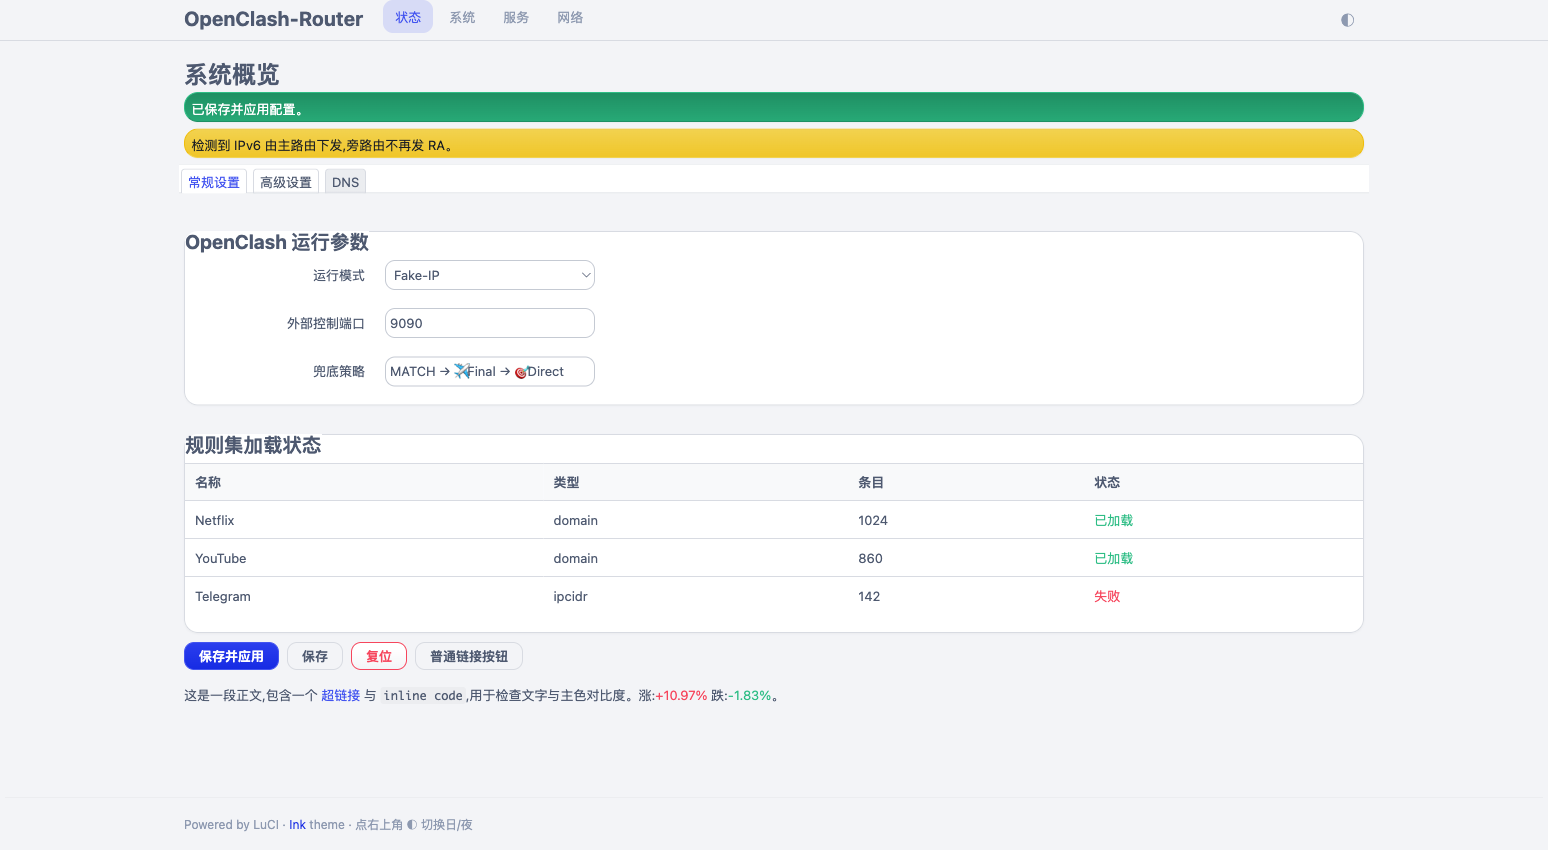
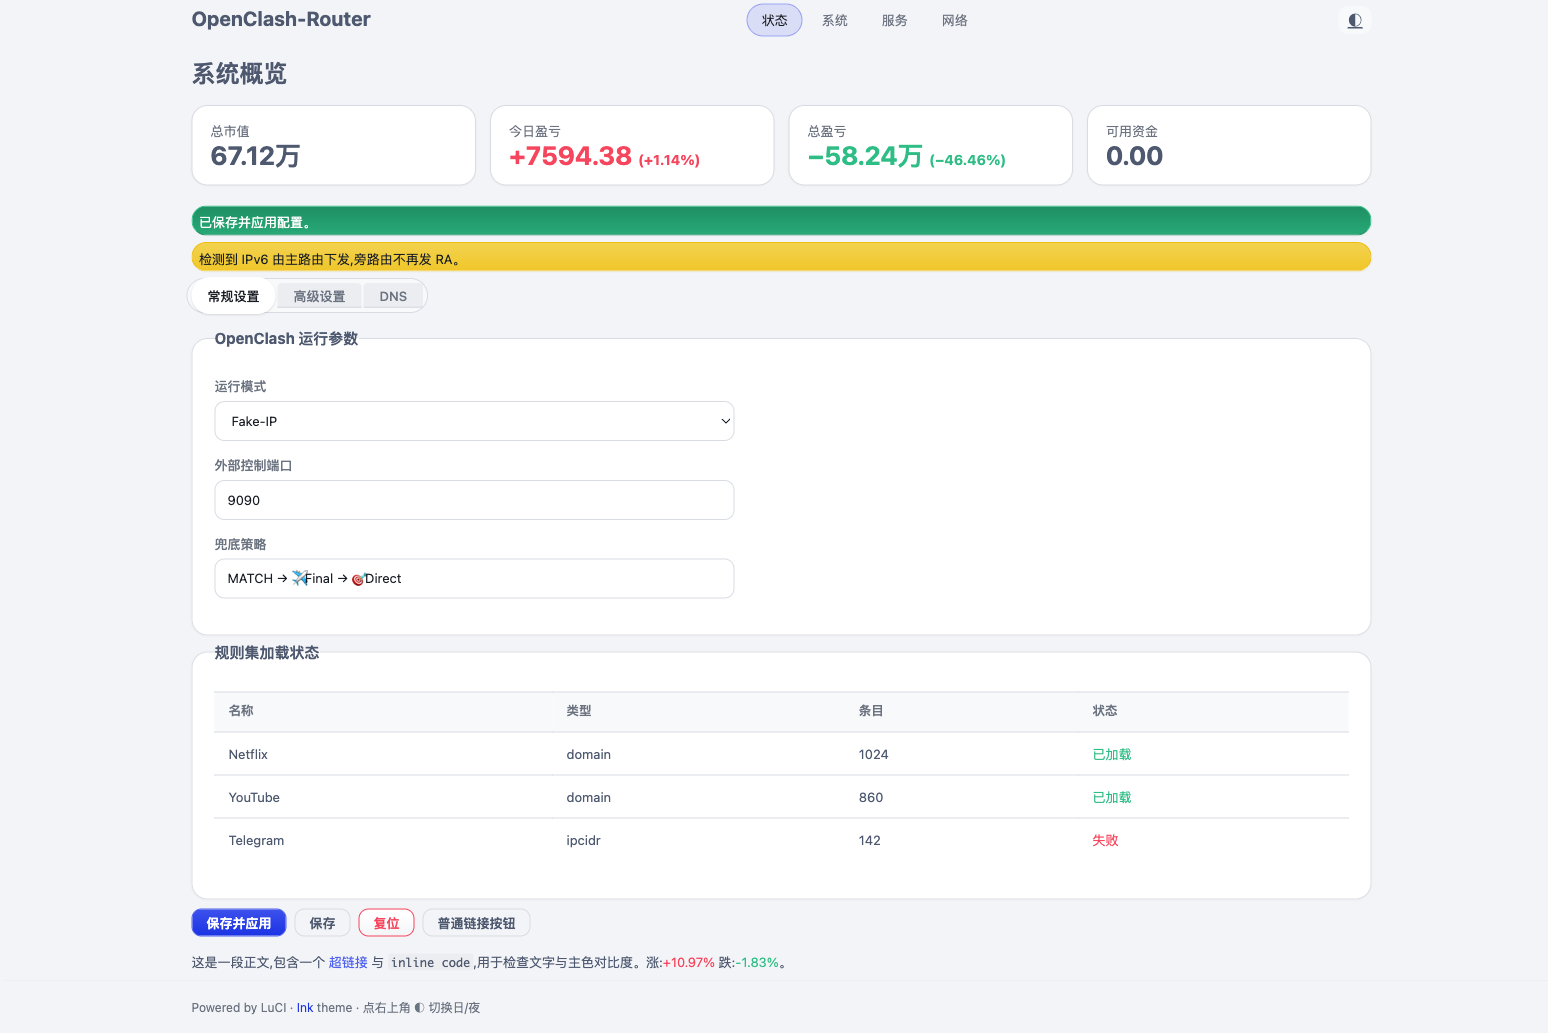
style: 表单标签上置整行输入、tab 分段药丸、导航描边药丸、配色/圆角对齐 PanWatch

diff --git a/luci-theme-ink/htdocs/luci-static/ink/cascade.css b/luci-theme-ink/htdocs/luci-static/ink/cascade.css
@@ -2680,11 +2680,15 @@ body[data-page='admin-status-overview'] .cbi-title .label.notice:hover {
   --border-color-s: 14%;
   --border-color-l: 100%;
 
-  /* indigo primary (PanWatch 234 85% 55%) */
-  --primary-color-high: hsl(234 85% 60%);
-  --primary-color-medium: hsl(234 85% 55%);
-  --primary-color-low: hsl(234 82% 49%);
+  /* indigo primary (PanWatch periwinkle) */
+  --primary-color-high: hsl(233 84% 62%);
+  --primary-color-medium: hsl(233 82% 58%);
+  --primary-color-low: hsl(233 78% 50%);
   --on-primary-color: #fff;
+
+  /* muted labels (PanWatch small gray field labels) */
+  --text-color-medium: hsl(220 9% 46%);
+  --text-color-low: hsl(220 10% 60%);
 
   /* semantic: green = ok / red = error (standard router UI) */
   --success-color-high-rgb: 46, 189, 133;
@@ -2696,7 +2700,7 @@ body[data-page='admin-status-overview'] .cbi-title .label.notice:hover {
   --error-color-medium: #e23a50;
   --error-color-low: #c92f44;
 
-  --ink-radius: 14px;
+  --ink-radius: 16px;
   --ink-radius-sm: 10px;
 
   color-scheme: light;
@@ -2709,7 +2713,7 @@ body[data-page='admin-status-overview'] .cbi-title .label.notice:hover {
   --background-color-delta-l-sign: -1;
   --background-color-h: 222;
   --background-color-s: 16%;
-  --background-color-l: 9%;
+  --background-color-l: 8%;
 
   --text-color-delta-l-sign: -1;
   --text-color-h: 220;
@@ -2721,10 +2725,13 @@ body[data-page='admin-status-overview'] .cbi-title .label.notice:hover {
   --border-color-s: 14%;
   --border-color-l: 11%;
 
-  --primary-color-high: hsl(234 85% 68%);
-  --primary-color-medium: hsl(234 85% 62%);
-  --primary-color-low: hsl(234 80% 55%);
+  --primary-color-high: hsl(233 90% 71%);
+  --primary-color-medium: hsl(233 88% 66%);
+  --primary-color-low: hsl(233 82% 58%);
   --on-primary-color: #fff;
+
+  --text-color-medium: hsl(220 10% 56%);
+  --text-color-low: hsl(220 8% 44%);
 
   color-scheme: dark;
 }
@@ -2762,25 +2769,32 @@ input:focus, select:focus, textarea:focus {
   box-shadow: 0 0 0 3px hsl(234 85% 55% / .18);
 }
 
-/* minimal top bar that BLENDS with the page (PanWatch signature) */
+/* minimal top bar that BLENDS with the page, centered nav (PanWatch signature) */
 header {
   background: var(--background-color-low) !important;
   background-image: none !important;
-  border-bottom: 1px solid var(--border-color-medium);
+  border-bottom: none;
   box-shadow: none;
+  display: flex;
+  align-items: center;
+  gap: 8px;
 }
-header .brand { color: var(--text-color-high); font-weight: 700; letter-spacing: .2px; }
+header .brand { flex: 0 0 auto; color: var(--text-color-high); font-weight: 700; letter-spacing: .2px; }
+header #topmenu { flex: 1 1 auto; display: flex; justify-content: center; gap: 4px; margin: 0; }
+header #indicators, header .ink-dark-toggle { flex: 0 0 auto; }
 header .nav > li > a, header #indicators > * { color: var(--text-color-medium); }
 header .nav > li > a {
-  border-radius: var(--ink-radius-sm);
-  padding: 7px 12px;
-  transition: background-color .15s ease, color .15s ease;
+  border: 1px solid transparent;
+  border-radius: 999px;
+  padding: 6px 14px;
+  transition: background-color .15s ease, color .15s ease, border-color .15s ease;
 }
 header .nav > li > a:hover { color: var(--text-color-high); background: var(--background-color-medium); }
-/* active nav = soft indigo pill, NOT underline */
+/* active nav = bordered soft-indigo pill (PanWatch signature) */
 header .nav > li.active > a {
-  color: var(--primary-color-high);
-  background: hsl(234 85% 55% / .14);
+  color: var(--text-color-highest);
+  background: hsl(234 85% 55% / .12);
+  border-color: hsl(234 85% 62% / .45);
   box-shadow: none;
 }
 
@@ -2815,3 +2829,111 @@ a { color: var(--primary-color-high); }
   text-decoration: none;
 }
 .ink-dark-toggle:hover { color: var(--text-color-high); background: var(--background-color-medium); }
+
+/* -------------------------------------------------------------------------
+ * Ink form layout — PanWatch style: label on top, full-width tall fields
+ * ------------------------------------------------------------------------- */
+
+/* section card: bigger radius + generous padding + bold legend */
+.cbi-section, fieldset.cbi-section, .panel { padding: 20px 22px; }
+.cbi-section > legend, .cbi-section > h3, .panel-title, legend {
+  font-size: 15px;
+  font-weight: 700;
+  color: var(--text-color-high);
+  margin-bottom: 12px;
+  padding: 0;
+}
+
+/* stack each field: label above, field full width.
+   NOTE: must beat bootstrap's `.cbi-value label.cbi-value-title { flex:0 0 180px }`
+   — in a column that 180px becomes HEIGHT, so reset flex to auto with = specificity. */
+.cbi-value {
+  display: flex;
+  flex-direction: column;
+  align-items: stretch;
+  flex-wrap: nowrap;
+  margin-bottom: 16px;
+  padding: 0;
+  border: 0;
+}
+.cbi-value label.cbi-value-title,
+.cbi-value > .cbi-value-title {
+  flex: 0 0 auto;
+  width: 100%;
+  min-width: 0;
+  text-align: left;
+  padding: 0 0 6px 0;
+  margin: 0;
+  font-size: 13px;
+  font-weight: 500;
+  color: var(--text-color-medium);
+  line-height: 1.3;
+}
+.cbi-value-field { flex: 1 1 auto; width: 100%; margin-left: 0; padding: 0; }
+.cbi-value-description { color: var(--text-color-low); font-size: 12px; margin-top: 6px; }
+
+/* full-width, taller, comfy inputs */
+.cbi-value-field input[type="text"],
+.cbi-value-field input[type="password"],
+.cbi-value-field input[type="number"],
+.cbi-value-field input[type="search"],
+.cbi-value-field select,
+.cbi-value-field textarea,
+.cbi-input-text, .cbi-input-password {
+  width: 100%;
+  max-width: 520px;
+  min-height: 40px;
+  padding: 8px 12px;
+  background: var(--background-color-high);
+  border: 1px solid var(--border-color-medium);
+  color: var(--text-color-highest);
+}
+.cbi-value-field textarea { min-height: 96px; }
+
+/* modal / popup dialogs — rounded, padded, PanWatch-like */
+.modal {
+  border-radius: var(--ink-radius) !important;
+  padding: 24px 26px;
+  border: 1px solid var(--border-color-medium);
+  box-shadow: 0 24px 60px -20px rgba(0, 0, 0, .45);
+}
+.modal h4, .modal h3 { font-weight: 700; }
+
+/* tables: roomier rows, soft header */
+.table .th { color: var(--text-color-medium); font-weight: 600; font-size: 12.5px; }
+.table .td, .table .th { padding: 12px 14px; }
+.cbi-section-table .tr:hover .td { background: var(--background-color-medium); }
+
+/* -------------------------------------------------------------------------
+ * Ink tabs — segmented control (PanWatch 持仓/关注 pill switch)
+ * ------------------------------------------------------------------------- */
+.cbi-tabmenu, .tabs {
+  display: inline-flex;
+  flex-wrap: wrap;
+  gap: 2px;
+  margin-bottom: 18px;
+  padding: 4px;
+  background: var(--background-color-medium);
+  border: 1px solid var(--border-color-medium);
+  border-radius: 999px;
+  list-style: none;
+}
+.cbi-tabmenu > li, .tabs > li { border: 0 !important; margin: 0; background: none; }
+.cbi-tabmenu > li > a, .tabs > li > a {
+  display: block;
+  border: 0 !important;
+  border-radius: 999px !important;
+  padding: 6px 16px;
+  color: var(--text-color-medium);
+  background: transparent;
+  font-weight: 500;
+}
+.cbi-tabmenu > li > a:hover, .tabs > li > a:hover { color: var(--text-color-high); background: transparent; }
+/* active tab = filled pill */
+.cbi-tabmenu > li.cbi-tab-active > a,
+.cbi-tabmenu > li.cbi-tab:not(.cbi-tab-disabled) > a,
+.tabs > li.active > a {
+  background: var(--background-color-high);
+  color: var(--text-color-highest);
+  box-shadow: 0 1px 2px rgba(0, 0, 0, .12);
+}

diff --git a/preview/index.html b/preview/index.html
@@ -36,14 +36,34 @@
   <div id="maincontent" class="container">
     <h2>系统概览</h2>
 
+    <!-- KPI 卡片网格(PanWatch 风格,演示主题卡片观感) -->
+    <div style="display:grid;grid-template-columns:repeat(auto-fit,minmax(180px,1fr));gap:14px;margin:14px 0 20px;">
+      <div class="cbi-section" style="padding:16px 18px;">
+        <div style="color:var(--text-color-medium);font-size:13px;">总市值</div>
+        <div style="font-size:26px;font-weight:700;margin-top:6px;">67.12万</div>
+      </div>
+      <div class="cbi-section" style="padding:16px 18px;">
+        <div style="color:var(--text-color-medium);font-size:13px;">今日盈亏</div>
+        <div style="font-size:26px;font-weight:700;margin-top:6px;color:var(--error-color-high);">+7594.38 <span style="font-size:14px;">(+1.14%)</span></div>
+      </div>
+      <div class="cbi-section" style="padding:16px 18px;">
+        <div style="color:var(--text-color-medium);font-size:13px;">总盈亏</div>
+        <div style="font-size:26px;font-weight:700;margin-top:6px;color:var(--success-color-high);">−58.24万 <span style="font-size:14px;">(−46.46%)</span></div>
+      </div>
+      <div class="cbi-section" style="padding:16px 18px;">
+        <div style="color:var(--text-color-medium);font-size:13px;">可用资金</div>
+        <div style="font-size:26px;font-weight:700;margin-top:6px;">0.00</div>
+      </div>
+    </div>
+
     <div class="alert-message success">已保存并应用配置。</div>
     <div class="alert-message warning">检测到 IPv6 由主路由下发,旁路由不再发 RA。</div>
 
     <!-- Tabs -->
-    <ul class="cbi-tabmenu tabs" style="display:flex;list-style:none;gap:2px;padding:0;">
-      <li class="cbi-tab cbi-tab-active active"><a href="#">常规设置</a></li>
-      <li class="cbi-tab"><a href="#">高级设置</a></li>
-      <li class="cbi-tab"><a href="#">DNS</a></li>
+    <ul class="cbi-tabmenu">
+      <li class="cbi-tab cbi-tab-active"><a href="#">常规设置</a></li>
+      <li class="cbi-tab-disabled"><a href="#">高级设置</a></li>
+      <li class="cbi-tab-disabled"><a href="#">DNS</a></li>
     </ul>
 
     <!-- Form card -->
